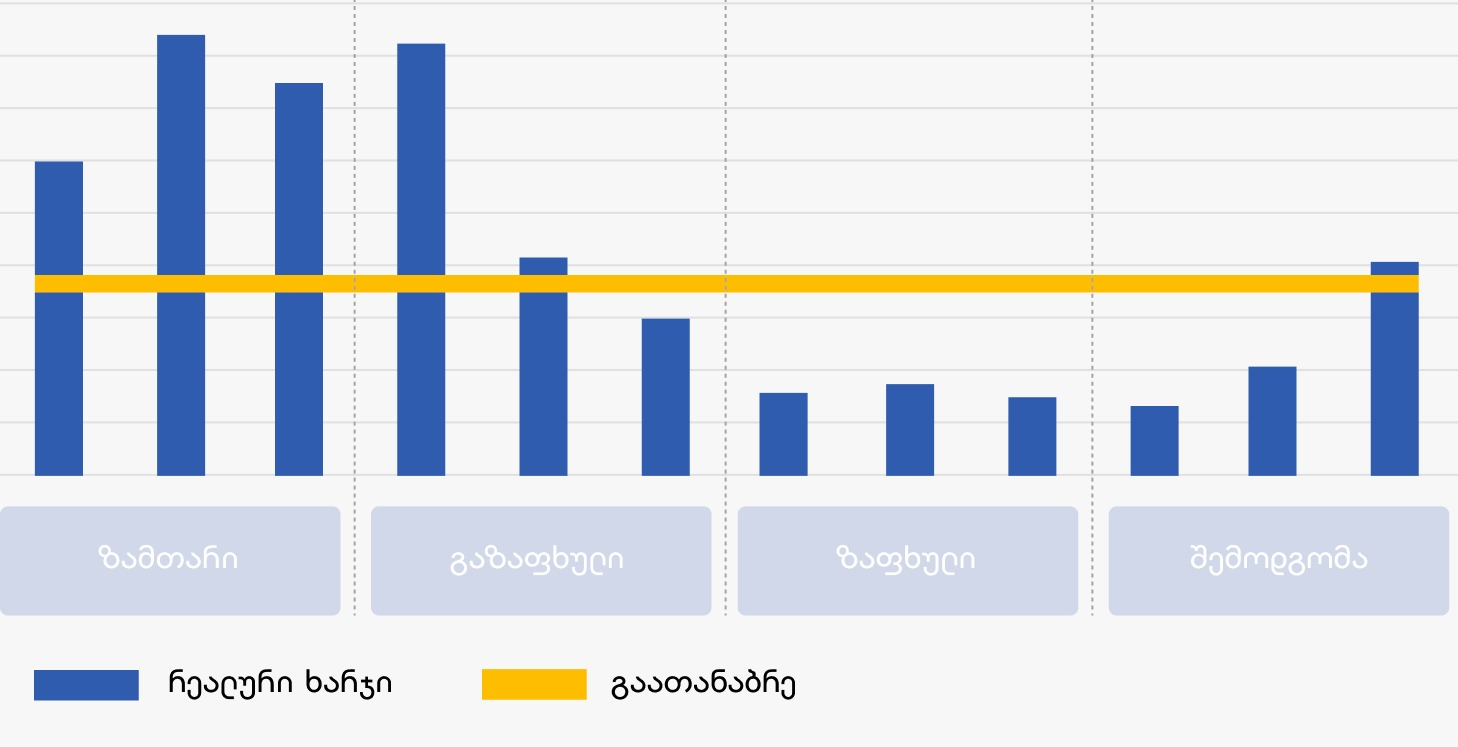
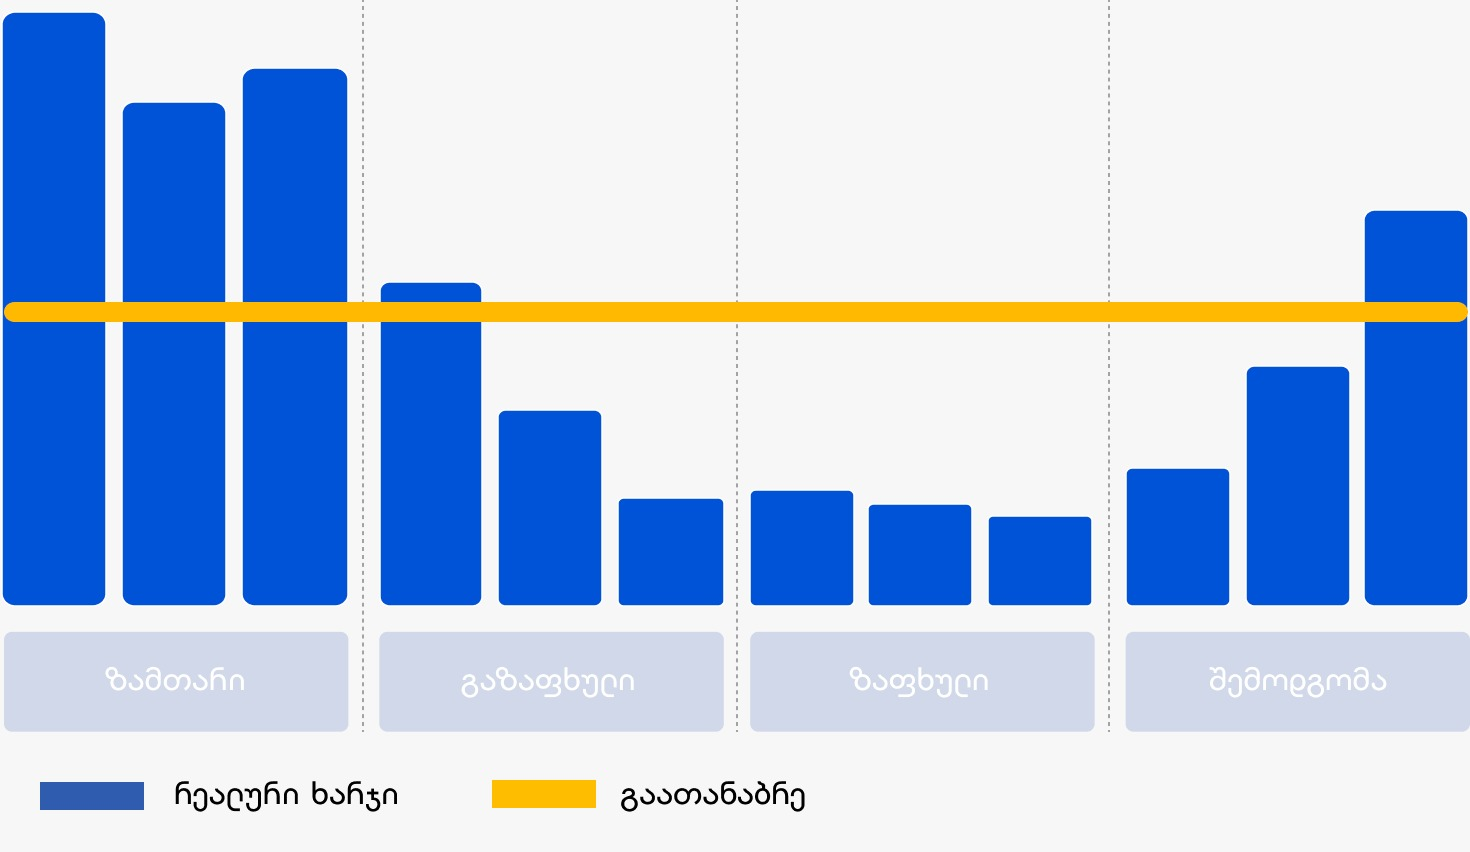
Changed Copies and Diagram IMG

diff --git a/index.html b/index.html
@@ -37,7 +37,7 @@
   </nav>
   <div class="hero">
     <div class="hero-title">
-      გადაიხადე გაზში ფიქსირებული <br />
+      გადაიხადე ბუნებრივ გაზში ფიქსირებული <br />
       თანხა ყოველთვე
     </div>
     <div class="hero-button">
@@ -60,7 +60,7 @@
         <div class="card1">
           <div class="card-title">
             <img src="./assets/Rectangle42.png" alt="" style="height: 8px; width: 10px; transform: translateY(7px)" />
-            <p>არ იხდი გაზში გაორმაგებულ გადასახადს ზამთარში.</p>
+            <p>არ იხდი ბუნებრივ გაზში გაორმაგებულ გადასახადს ზამთარში.</p>
           </div>
           <div class="card-title">
             <img src="./assets/Rectangle42.png" alt="" style="height: 8px; width: 10px; transform: translateY(7px)" />
@@ -90,14 +90,14 @@
       <div class="example-content">
         <p><span>მაგალითად</span></p>
         <p>
-          თუ წინა წლის განმავლობაში დახარჯული ჯამური თანხა შეადგენს 1000 ლარს, 1000 ლარი გაიყოფა 12 თვეზე და დაემატება
+          თუ წინა წლის განმავლობაში დახარჯული ჯამური თანხა შეადგენს 700 ლარს, 700 ლარი გაიყოფა 12 თვეზე და დაემატება
           გაათანაბრეს ყოველთვიური მომსახურების საკომისიო 5%. 
         </p>
         <p><span>დაანგარიშებული თანხა:</span></p>
-        <p>1000₾/12(თვე) = 83.3₾</p>
+        <p>700₾/12(თვე) = 58.4₾</p>
         <p><span>საკომისიო</span></p>
-        <p>83.3 x 0,05 = 4.2₾</p>
-        <p><span>ყოველთვიური ჯამური გადასახადი: 87.5₾</span></p>
+        <p>58.4 x 0,05 = 2.9₾</p>
+        <p><span>ყოველთვიური ჯამური გადასახადი: 61.3₾</span></p>
       </div>
     </section>
     <!--example -  მობილურის დივი დასასრული -->
@@ -110,20 +110,20 @@
       <div class="example-content">
         <p><span>მაგალითად</span></p>
         <p>
-          თუ წინა წლის განმავლობაში დახარჯული ჯამური თანხა შეადგენს 1000 ლარს,
-          1000 ლარი გაიყოფა 12 თვეზე და დაემატება გაათანაბრეს ყოველთვიური
+          თუ წინა წლის განმავლობაში დახარჯული ჯამური თანხა შეადგენს 700 ლარს,
+          700 ლარი გაიყოფა 12 თვეზე და დაემატება გაათანაბრეს ყოველთვიური
           მომსახურების საკომისიო 5%.
         </p>
         <p><span>დაანგარიშებული თანხა:</span></p>
-        <p>1000₾/12(თვე) = 83.3 ლარი</p>
+        <p>700₾/12(თვე) = 58.4 ლარი</p>
         <p><span>საკომისიო</span></p>
-        <p>83.3 x 0,05 = 4.2 ლარი</p>
-        <p><span>ყოველთვიური ჯამური გადასახადი: 87.5 ლარი</span></p>
+        <p>58.4 x 0,05 = 2.9 ლარი</p>
+        <p><span>ყოველთვიური ჯამური გადასახადი: 61.3 ლარი</span></p>
       </div>
     </section>
     <h1 class="program-title">
       პირველ ეტაპზე <br />
-      პროგრამაა მოიცავს:
+      პროგრამა მოიცავს:
     </h1>
     <div class="city-cards-wrapper">
       <section class="city-cards">
@@ -481,14 +481,14 @@
                  თანხა გამოითვლება თქვენს მიერ პროგრამაში ჩართვამდე,წინა 12 თვის განმავლობაში გახარჯული ჯამური გადასახადის საშუალო ოდენობის მიხედვით. 
                   <br>
                   <br>
-                თუ წინა წლის განმავლობაში დახარჯული ჯამური თანხა შეადგენს 1000 ლარს, 1000 ლარი გაიყოფა 12 თვეზე და დაემატება გაათანაბრეს მომსახურების საკომისიო 5%. 
+                თუ წინა წლის განმავლობაში დახარჯული ჯამური თანხა შეადგენს 700 ლარს, 700 ლარი გაიყოფა 12 თვეზე და დაემატება გაათანაბრეს მომსახურების საკომისიო 5%. 
                   <br>
                   <br>
-                დაანგარიშებული თანხა:                        1000₾/12(თვე) = 83.3 ლარი
+                დაანგარიშებული თანხა:                        700₾/12(თვე) = 58.4 ლარი
                 <br>
-                საკომისიო:                                                83.3 x 0,05 = 4.2 ლარი
+                საკომისიო:                                                58.4 x 0,05 = 2.9 ლარი
                 <br>
-                ყოველთვიური ჯამური გადასახადი:      87.5 ლარი
+                ყოველთვიური ჯამური გადასახადი:      61.3 ლარი
               </p>
               </div>
            </div>

diff --git a/style.css b/style.css
@@ -896,7 +896,7 @@ footer p {
   }
 
   .faq-header {
-    margin-top: 31px;
+    margin-top: 45px;
     width: 201px;
     margin-left: 20px;
   }
@@ -1019,6 +1019,7 @@ footer p {
   box-shadow: 0 .5rem 1rem rgba(0,0,0,.05)!important;
 }
 .diagram_img{
+  border-radius:5px;
   width:100%;
 }
 
